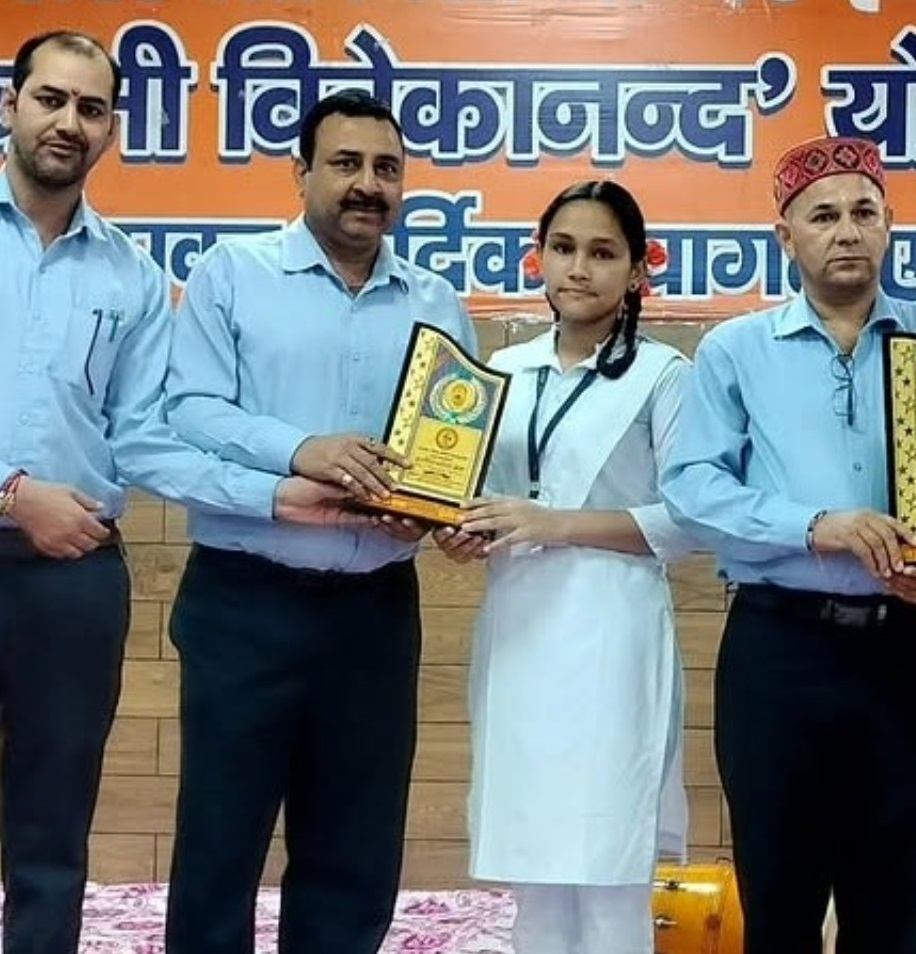
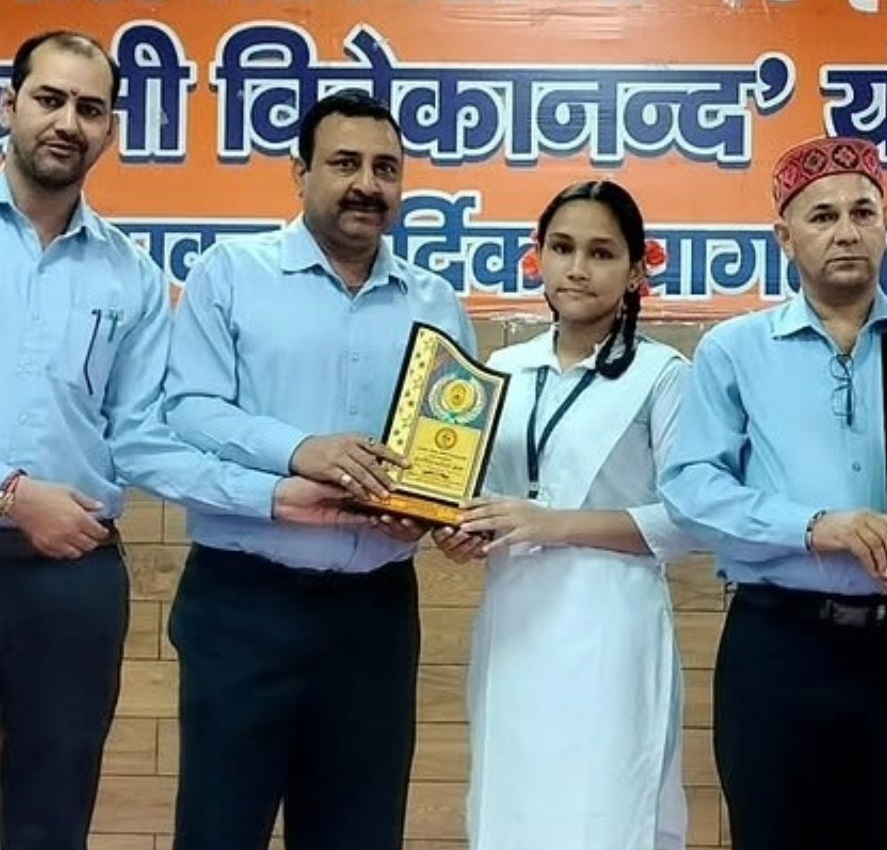
updated

diff --git a/index.html b/index.html
@@ -325,9 +325,9 @@
             </p>
             <p>
               <strong>Tech Stack:</strong><br>
-              Python
+                      Python
             </p>
-            <a href="https://github.com/rawatmeenakshi7202-eng/gst-billing-system.git" class="project-img"
+            <a href="https://github.com/rawatmeenakshi7202-eng/gst-billing-system.git"
                target="_blank"
                class="btn btn-primary">
                View on GitHub
